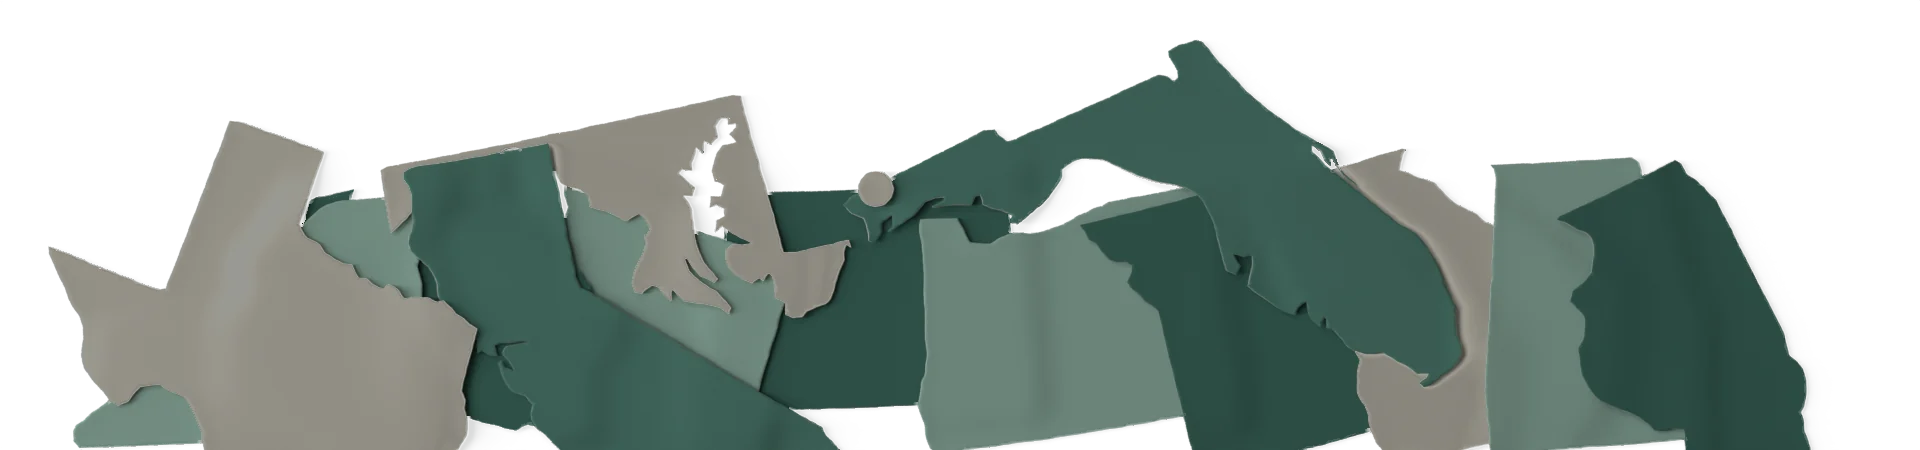
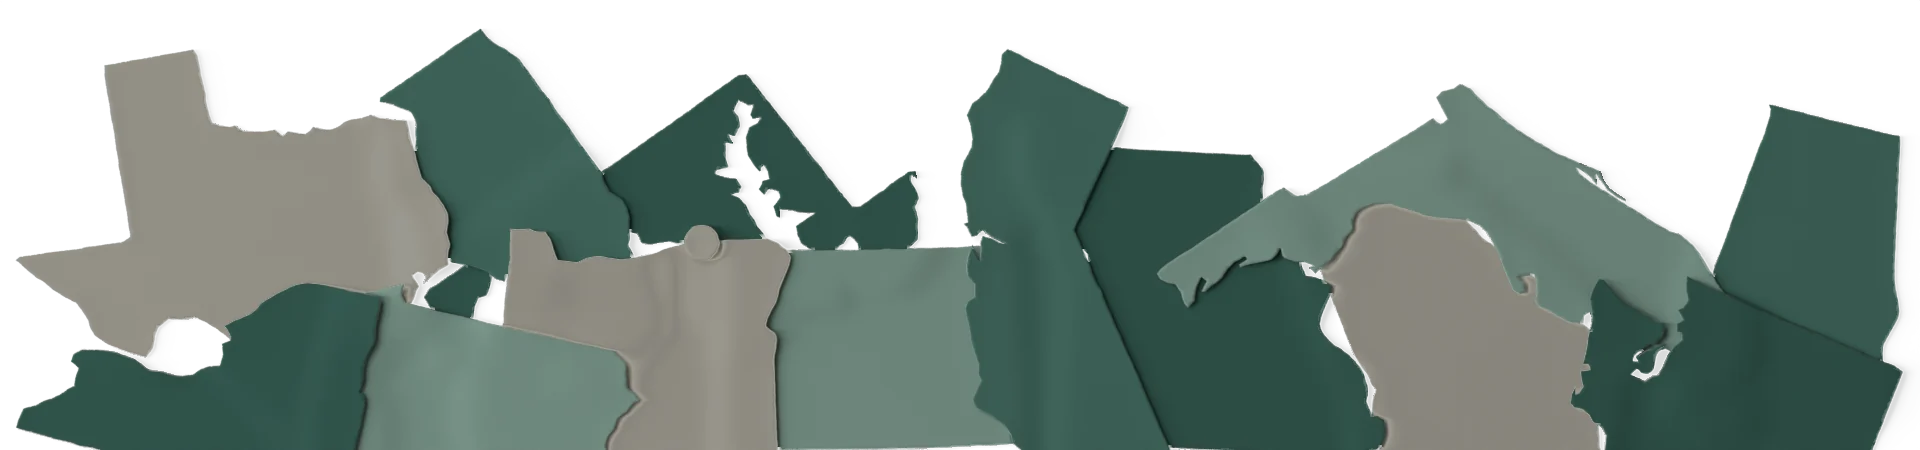
First page round 2: Show endorsements switch, states spread across the footer, thank-you coffee, address reads every district format
- "Show endorsements" is a switch that leads step 2 and the Edit sheet, on to
  start. Off, every source is off and the chips, "A party", the picks count
  and the fill switch step aside; "Hide races I've decided" stays. The act is
  data-act="ends" (role=switch); the save link is unchanged (sources []).
- The states pile is re-laid from a search for even cover across a phone and
  paper on every column of the bottom edge, then rendered and baked again; the
  CSS crop drops to the bake's 3px soft edge. The e2e check reads the bottom
  row of the image the band shows and finds no bare desk.
- "Buy Kevin a thank-you coffee", the whole line the link; How this guide
  works reads "Made by Kevin HG · Buy him a thank-you coffee".
- The Census district reader also reads "GA-5" style House seats, "Senate
  District 35" and "House District 53", and Washington's "LD-32" senators,
  so an address settles 13 more races (Atlanta, Chicago, Portland, Seattle,
  New York's boroughs, Callicoon). Washington's two representative seats per
  district stay unread.

Claude-Session: https://claude.ai/code/session_016fs4byQ7yRvJPLZNspiPou

diff --git a/src/views/setup.ts b/src/views/setup.ts
@@ -9,7 +9,7 @@ import { chipsHTML, TICK } from './lens';
 import { partiesOnBallot, CHIPS, noEndorsements, doorNone } from '../model/lens';
 import { coverage } from '../model/tally';
 import { planSetup } from '../model/bulk';
-import { isOpen, FILL, HIDE, NO_ENDS } from './common';
+import { isOpen, FILL, HIDE, SHOW_ENDS } from './common';
 
 /* "Austin, Texas", "Aurora or Denver, Colorado", "Ward 1, Washington, DC", or the state alone for
    statewide races. */
@@ -34,11 +34,11 @@ export function fillLine(party: string | null): string {
 const sw = (act: string, on: boolean, label: string, sub = ''): string =>
   `<button class="su-sw" role="switch" aria-checked="${on}" data-act="${act}" data-fk="${act}"><span class="su-l"><b>${esc(label)}</b>${sub ? `<small>${esc(sub)}</small>` : ''}</span><span class="tg" aria-hidden="true"><span></span></span></button>`;
 
-/* Step 2's controls, shared with the ballot's Edit sheet: the chips and "A party", the coverage
-   line, and the two switches. On the first page "A party" opens its list right there; in the Edit
-   sheet it opens the party sheet, and "See all sources" opens every source. Before a ZIP has found a
-   ballot the first page shows the choices kept so far (S.door), every party the guide covers, and
-   no counts. */
+/* Step 2's controls, shared with the ballot's Edit sheet: "Show endorsements", the chips and "A
+   party", the coverage line, and the two switches. On the first page "A party" opens its list right
+   there; in the Edit sheet it opens the party sheet, and "See all sources" opens every source. Before
+   a ZIP has found a ballot the first page shows the choices kept so far (S.door), every party the
+   guide covers, and no counts. */
 export function pickControlsHTML(inSheet = false): string {
   const b = inSheet || S.view === 'setup' ? S.ballot : null;
   const party = b ? S.b.party : S.door.party;
@@ -55,19 +55,23 @@ export function pickControlsHTML(inSheet = false): string {
     : '';
   const chips = b ? chipsHTML()
     : CHIPS.map((c) => `<button class="chip" data-act="chip" data-k="${c.key}" aria-pressed="${S.door.chips[c.key]}" data-fk="chip-${c.key}">${TICK}${esc(c.label)}</button>`).join('');
-  // "Don't show endorsements": every row shows just the choices. With it on there is nothing to fill
-  // and nothing to count, so the fill switch and the coverage line step aside. It leads the group
-  // (Kevin, Oct 20), but as a small pen tick box on its own line rather than a chip, so it doesn't
-  // outweigh the choices after it (Kevin, Oct 21); newspapers and guides stay the default.
+  // "Show endorsements" leads the step as a switch like the two below it, on to start (Kevin, Oct 21:
+  // say it the affirmative way). Off, every row shows just the choices: no source on and no party, so
+  // the chips, "A party", the coverage line and the fill switch, which only matter with endorsements,
+  // step aside. On again, newspapers and guides come back.
   const none = b ? noEndorsements() : doorNone();
-  const noneChip = `<button class="su-none" data-act="no-ends" aria-pressed="${none}" data-fk="chip-none"><i aria-hidden="true"></i>${NO_ENDS}</button>`;
-  const cov = b && !none ? coverage() : null;
-  return `<div class="su-chips" role="group" aria-labelledby="${inSheet ? 'sh-h' : 'su-h'}">${noneChip}${chips}${partyChip}${more}</div>
+  const ends = `<div class="su-sws su-ends">${sw('ends', !none, SHOW_ENDS)}</div>`;
+  const only = sw('setup-only', inSheet ? S.ui.setupOnly : S.door.only, HIDE);
+  if (none) return `${ends}
+    <div class="su-sws">${only}</div>`;
+  const cov = b ? coverage() : null;
+  return `${ends}
+    <div class="su-chips" role="group" aria-labelledby="${inSheet ? 'sh-h' : 'su-h'}">${chips}${partyChip}${more}</div>
     ${list}
     ${cov ? `<p class="su-cov">Picks in ${cov.picked} of your ${plural(cov.total, 'race')}.</p>` : ''}
     <div class="su-sws">
-      ${none ? '' : sw('setup-fill', inSheet ? S.ui.setupFill : S.door.fill, FILL, b ? fillLine(party) : 'Fills the races where they agree. Races where picks split stay open.')}
-      ${sw('setup-only', inSheet ? S.ui.setupOnly : S.door.only, HIDE)}
+      ${sw('setup-fill', inSheet ? S.ui.setupFill : S.door.fill, FILL, b ? fillLine(party) : 'Fills the races where they agree. Races where picks split stay open.')}
+      ${only}
     </div>`;
 }
 

diff --git a/src/styles.css b/src/styles.css
@@ -191,13 +191,10 @@ b, strong { font-weight: 600; }
 .front .fine .linkbtn { margin: -12px 0; padding: 0; }
 .su-h { margin-top: 16px; font-family: var(--f-display); font-size: 22px; font-weight: 800; line-height: 1.05; font-variation-settings: "wdth" 78; color: var(--print); }
 .su-chips { display: flex; flex-wrap: wrap; gap: 8px; margin-top: 14px; }
-/* "Don't show endorsements" heads the group as a pen tick box on its own line, like the first page's
-   ticks: lighter than a chip, so the choices after it carry the weight. The whole line is the tap. */
-.su-none { flex: 1 0 100%; min-height: 40px; margin: -6px 0 -2px; display: flex; align-items: center; gap: 10px; font-size: 15px; color: var(--ink-2); text-align: left; }
-.su-none i { width: 16px; height: 16px; border: 1.3px solid var(--ink-2); border-radius: 1.5px; flex: none; position: relative; }
-.su-none[aria-pressed="true"] { color: var(--ink); }
-.su-none[aria-pressed="true"] i { border-color: var(--ink); }
-.su-none[aria-pressed="true"] i::after { content: ""; position: absolute; left: -1px; top: -9px; width: 25px; height: 23px; background: var(--ink); -webkit-mask: var(--pen-tick) center / contain no-repeat; mask: var(--pen-tick) center / contain no-repeat; }
+/* "Show endorsements" leads step 2, right under its heading; the chips it governs follow. */
+.su-ends { margin-top: 2px; }
+.su-ends .su-sw { min-height: 44px; padding: 8px 0 0; }
+.su-ends + .su-chips { margin-top: 6px; }
 .su-parties { margin-top: 8px; }
 .su-cov { margin-top: 12px; padding-bottom: 14px; border-bottom: 1px solid var(--rule-2); font-size: 14.5px; color: var(--muted); }
 .su-sw { width: 100%; min-height: 52px; display: grid; grid-template-columns: minmax(0, 1fr) 52px; gap: 12px; align-items: start; padding: 12px 0 6px; text-align: left; }
@@ -785,12 +782,12 @@ b, strong { font-weight: 600; }
 /* The covered states cut from paper and piled up at the foot of the first page (pile.webp: 1920x450, a 3x
    render drawn at 640 by 150). The first page is at least a screen tall, and the band sits on its bottom
    edge, as wide as the page; the heap is drawn at its own size in the middle, so a phone sees it run off
-   both sides and a wider screen sees all of it, ending in bare desk. The render's bottom 18px are cut
-   off: some bottom pieces stop up to 16px short of its edge, and the heap should run off the page with
-   no desk under it (Kevin, Oct 21). Decoration only. */
-.front.mast { position: relative; min-height: 100vh; min-height: 100svh; padding-bottom: 150px; }
-.pile { position: absolute; left: 0; right: 0; bottom: 0; height: 132px; overflow: hidden; overflow: clip; pointer-events: none; }
-.pile img { position: absolute; left: 50%; bottom: -18px; width: 640px; height: 150px; max-width: none; margin-left: -320px; }
+   both sides and a wider screen sees all of it, ending in bare desk. Every piece along the bottom runs
+   off the render's edge, so no desk shows under the heap (Kevin, Oct 21); the bottom 3px are cut off,
+   where the bake's softening leaves the edge a little see-through. Decoration only. */
+.front.mast { position: relative; min-height: 100vh; min-height: 100svh; padding-bottom: 165px; }
+.pile { position: absolute; left: 0; right: 0; bottom: 0; height: 147px; overflow: hidden; overflow: clip; pointer-events: none; }
+.pile img { position: absolute; left: 50%; bottom: -3px; width: 640px; height: 150px; max-width: none; margin-left: -320px; }
 @media print { .pile { display: none; } }
 .voted-head .kick { font-family: var(--f-display); font-size: 22px; font-weight: 800; font-variation-settings: "wdth" 78; color: var(--gold-ink); margin-top: 6px; }
 

diff --git a/src/actions.ts b/src/actions.ts
@@ -530,28 +530,28 @@ A.src = (d) => {
   renderLens();
 };
 A['src-default'] = () => { S.b.sources = null; S.b.party = null; persist(); renderLens(); };
-/* "Don’t show endorsements" (step 2 and the Edit sheet): every source off and no party, so every row shows
-   just the choices; the save link carries it as an empty source list. Tapped again, the newspapers
-   and guides come back. Any other chip, or a party, ends it on its own. */
-A['no-ends'] = () => {
+/* "Show endorsements" (step 2 and the Edit sheet), on to start. Off: every source off and no party, so
+   every row shows just the choices; the save link carries it as an empty source list. On again, the
+   newspapers and guides come back. */
+A.ends = () => {
   if (S.view !== 'ballot') {
-    // With a ballot found, the chip shows that ballot's choice (it may have its own): turn that over.
-    const on = doorBallot() ? !noEndorsements() : !doorNone();
-    S.door.chips = { papers: !on, progressive: false, conservative: false };
+    // With a ballot found, the switch shows that ballot's choice (it may have its own): turn that over.
+    const off = doorBallot() ? !noEndorsements() : !doorNone();
+    S.door.chips = { papers: !off, progressive: false, conservative: false };
     S.door.party = null;
-    if (on) S.door.fill = false;
+    if (off) S.door.fill = false;
     S.ui.open.delete('su-party');
-    if (doorBallot()) { S.b.sources = on ? [] : null; S.b.party = null; }
+    if (doorBallot()) { S.b.sources = off ? [] : null; S.b.party = null; }
     render(['mast']);
-    announce(on ? 'Turned on.' : 'Turned off.');
+    announce(off ? 'Turned off.' : 'Turned on.');
     return;
   }
-  const on = !noEndorsements();
-  S.b.sources = on ? [] : null;
+  const off = !noEndorsements();
+  S.b.sources = off ? [] : null;
   S.b.party = null;
-  if (on) S.ui.setupFill = false;
+  if (off) S.ui.setupFill = false;
   renderLens(); persist();
-  announce(on ? 'Turned on.' : 'Turned off.');
+  announce(off ? 'Turned off.' : 'Turned on.');
 };
 A['src-none'] = () => { S.b.sources = []; S.b.party = null; persist(); renderLens(); };
 /* All sources or a party. Opened from the Edit sheet, it goes back there when it closes. */

diff --git a/src/views/common.ts b/src/views/common.ts
@@ -23,18 +23,19 @@ export const askCityURL = (zip: string): string => formURL('Please add my city',
 /* The two switches, the same words wherever they show (step 2, the Edit sheet, the menu, the rail). */
 export const FILL = 'Fill in my ballot with their picks';
 export const HIDE = 'Hide races I’ve decided';
-/* The chip that turns every source off (step 2 and the Edit sheet); the ballot's Picks line then
-   reads "No endorsements shown". */
-export const NO_ENDS = 'Don’t show endorsements';
+/* The switch that leads step 2 and the Edit sheet, on to start; off turns every source off and the
+   ballot's Picks line reads "No endorsements shown". */
+export const SHOW_ENDS = 'Show endorsements';
 
-/* The credit: Kevin's name, linked to his site, and Buy him a coffee while that has a link. The first
-   page names him in its small print ("where Kevin HG’s friends live"); "How this guide works" ends
-   with "Made by Kevin HG". */
+/* The credit: Kevin's name, linked to his site, and a thank-you coffee while that has a link (Kevin,
+   Oct 21: "Buy Kevin a thank-you coffee", the whole line the link). The first page names him in its
+   small print ("where Kevin HG’s friends live"); "How this guide works" ends with "Made by Kevin HG",
+   so its coffee line says "him". */
 export const BUY_ME_A_COFFEE_URL = 'https://buymeacoffee.com/kevinhg';
 export const KEVIN_URL = 'https://kevinhg.com';
 export const kevinLink = (): string => ext(KEVIN_URL, 'Kevin HG');
-export const coffeeLink = (): string => (BUY_ME_A_COFFEE_URL ? ext(BUY_ME_A_COFFEE_URL, 'Buy him a coffee') : '');
-export const creditHTML = (): string => [`Made by ${kevinLink()}`, coffeeLink()].filter(Boolean).join(' · ');
+export const coffeeLink = (who = 'Kevin'): string => (BUY_ME_A_COFFEE_URL ? ext(BUY_ME_A_COFFEE_URL, `Buy ${who} a thank-you coffee`) : '');
+export const creditHTML = (): string => [`Made by ${kevinLink()}`, coffeeLink('him')].filter(Boolean).join(' · ');
 
 /* ---------- paywalled sources (Kevin, Oct 19) ----------
    A paper whose endorsements sit behind a paywall we couldn't read: the picks we only saw

diff --git a/src/ballot.ts b/src/ballot.ts
@@ -40,14 +40,30 @@ export interface Ballot {
   hasLocal: boolean;
 }
 
+/* Which Census district a race is for, read from its district: Congress (cd), the state senate
+   (upper) or the state house or assembly (lower), with its number. The research mostly writes "CD-37",
+   "SD-14", "HD-49" or "AD-51", and a few places another way (Oct 21): a U.S. House seat as "GA-5" or
+   "NY-13", a legislature seat spelled out ("Senate District 35", "House District 53"), and Washington's
+   legislative districts, which elect one senator each ("LD-32"). Washington's two representatives
+   per district ("LD-32 Position 1" and "Position 2") stay unread: one district answer shows one race,
+   and both are on that district's ballot. Anything else is no Census district. */
+const US_HOUSE = /\bU\.?\s?S\.?\s+(?:House|Representative)|\bCongress/i;
 const districtNum = (c: Contest): { kind: Group['kind']; n: number | null } => {
-  const d = c.district || '';
+  const d = (c.district || '').trim();
   let m = d.match(/^CD-?\s*(\d+)/i);
   if (m) return { kind: 'cd', n: +m[1] };
   m = d.match(/^SD-?\s*(\d+)/i);
   if (m) return { kind: 'upper', n: +m[1] };
   m = d.match(/^(?:HD|AD)-?\s*(\d+)/i);
   if (m) return { kind: 'lower', n: +m[1] };
+  m = d.match(/^[A-Z]{2}-(\d+)$/);
+  if (m && US_HOUSE.test(c.office)) return { kind: 'cd', n: +m[1] };
+  m = d.match(/^(?:State )?Senate District (\d+)$/i);
+  if (m) return { kind: 'upper', n: +m[1] };
+  m = d.match(/^(?:State )?(?:House|Assembly) District (\d+)$/i);
+  if (m) return { kind: 'lower', n: +m[1] };
+  m = d.match(/^LD-?\s*(\d+)$/i);
+  if (m && /senat/i.test(c.office)) return { kind: 'upper', n: +m[1] };
   return { kind: null, n: null };
 };
 export const contestDistrict = districtNum;

diff --git a/scripts/paper/render.py b/scripts/paper/render.py
@@ -393,15 +393,21 @@ def state_rings(code, keep=.02):
 # The pile at the foot of the first page: the same states, cut from the crowd's papers and dropped in a heap
 # that runs off the bottom of the frame and, on a phone, off both sides; on a wide screen it ends in bare desk.
 # Back to front: x, y of the state's middle, its size (the square root of its area), a turn in degrees, paper.
-# The places came from a scratch search (many tries per piece, keeping the one that covered the most new desk
-# below a line with room to poke above it, overlapping the pieces already down by about a third, never past
-# the frame's top or sides), then were fixed here so a render is repeatable. DC is a small punched dot on top.
+# The places came from a scratch search (Oct 21, after Kevin saw the first heap crowd the left of a phone and
+# leave desk under its right side), kept out of the repo: simulated annealing over each piece's place, size
+# (within 8% of its old one) and turn, and the order they fall in, toward paper on every column of the frame's
+# bottom edge, even cover across a phone's middle 390 px with the same paper left and right of center, no desk
+# showing between pieces under the heap's top edge, turns and a skyline that vary, the heap settling lower
+# toward the ends, each state showing at least 70% of itself (Florida, Texas and California 80%), and nothing
+# past the frame's top or sides. Papers were then dealt so touching pieces mostly differ and each paper spreads
+# across the width. DC is a small punched dot on top, where the city sits on Maryland's southwest edge. The
+# numbers are fixed here so a render is repeatable.
 PILE = [
-    ('CO', -0.30, -0.24, .84, 2, 'deep'), ('WA', -1.16, -0.30, .80, -19, 'tint'), ('OR', 0.35, -0.30, .84, 9, 'tint'),
-    ('PA', -1.73, -0.29, .76, -15, 'deep'), ('MO', 1.07, -0.35, .84, 15, 'deep'), ('GA', 1.63, -0.26, .82, 17, 'cream'),
-    ('AL', 2.09, -0.35, .78, 4, 'tint'), ('NY', -2.22, -0.50, .82, 4, 'tint'), ('IL', 2.42, -0.45, .76, 26, 'deep'),
-    ('MD', -1.13, -0.04, .62, 12, 'cream'), ('CA', -1.10, -0.44, .92, 12, 'green'), ('FL', 0.68, -0.18, .86, 28, 'green'),
-    ('TX', -2.36, -0.44, 1.02, -19, 'cream'), ('DC', -0.28, 0.12, .12, 0, 'cream'),
+    ('GA', 1.70, -0.38, .83, 13, 'cream'), ('MD', -0.91, -0.12, .66, 35, 'deep'), ('AL', 2.83, -0.17, .72, -13, 'green'),
+    ('IL', -1.48, 0.05, .70, 35, 'green'), ('CO', -0.29, -0.41, .77, 1, 'tint'), ('MO', 0.83, -0.31, .91, -3, 'deep'),
+    ('OR', -1.08, -0.39, .81, 0, 'cream'), ('TX', -2.42, -0.09, .97, 11, 'cream'), ('FL', 1.66, -0.27, .79, 35, 'tint'),
+    ('WA', 2.54, -0.60, .77, -24, 'deep'), ('CA', 0.38, -0.29, .85, -24, 'green'), ('PA', -1.57, -0.56, .70, -13, 'tint'),
+    ('NY', -2.44, -0.66, .75, -13, 'deep'), ('DC', -0.86, -0.06, .12, 0, 'cream'),
 ]
 PILE_FRAME = (6.4, 1.5)   # scene units; at PX=300 the image is 1920 by 450, drawn at 640 by 150 CSS px (3x)
 PILE_STEP = .017          # a sheet clears the one under it by this much: its thickness plus the most a crumple

diff --git a/AGENTS.md b/AGENTS.md
@@ -61,4 +61,4 @@ Changing any of this silently loses people's picks. `tests/model.mjs` pins it (a
 
 ## Test hooks (keep them, or update the tests in the same change)
 
-`id="i-<item id>"` and `data-item` on every item, `data-undecided` on undecided rows, `data-q` on district questions, `data-act` on every control, `.sec[data-sec]` with `.sec-count` (just "N of M decided": it sits in the band's count `.sec-r`, after the title's `[data-act="sec"]`; where there is something to show or hide the count is a button `[data-act="sec-count"]` with `.sec-edit` "Show" or "Hide" after it, which under "Hide races I've decided" shows the section's decided rows for the visit and otherwise folds the section), `.unopp .disc`, `.wi-fold` (folded write-ins), `.bar-txt` ("N of M decided" by the one counting rule in `ballot.ts`: a district question is one race until it's answered, and the closed "Other school districts" fold's races count only once claimed; it sits in the bar's menu button `[data-act="toc"]`, beside My plan `[data-act="cheat"]`), the menu (`.sheet-panel.toc` under 1180px, `.rail` from there, both from `menuHTML`) with `[data-act="next"]` ("Next up", its `data-k` the race it opens), `[data-act="only"]` ("Hide races I've decided", right above the section rows; saved with the ballot as `hideDecided`, never in the save link; a finished section then stays as its folded band) and `[data-act="jump"][data-to="plan|<section>|how"]`, `#how` ("How this guide works" at the bottom of the ballot, folded to its row `[data-act="open"][data-k="how"]` until that or the menu's last row opens `.how-bd`, which ends with the credit), `#plan`, `#cheat`, `#r-print`, `.toast`, the first page (steps 1 and 2 together on `.pad.door`, the sheet My plan uses: `#zip` looks a complete ZIP up as it's typed and `.door-place` names what it found, or `.choose` asks which place, `.door-place [data-act="rechoose"]` asks again; `#setup` is step 2 with `#su-h`, its chips and switches working before any ZIP and `.su-cov` once a ballot is found; `[data-act="setup-done"]` is "Show my ballot", which waits for the lookup, so every browser check types the ZIP and taps it before waiting for `#plan`), `[data-fk="browse"]` (the city count that opens the list of places), `.picks-line` with `[data-act="picks"]` (Edit: step 2's controls in `.sheet-panel.picks`, whose Done is `[data-fk="sheet-x"]` and applies its two switches; "See all sources" and "A party" open their sheets from there and come back), `.filled` ("N filled in. Undo" while that Undo lasts), `.addrbox` (the address box: before a lookup `.addr-n` "{n} races depend on your address."; after one `.addr-found` "Found: {the Census's address}" with `[data-act="addr-again"]` "Not it? Try again", for this visit only and never saved, `.addr-set` the saved "Set from your address: ..." line, and `.addr-n` "{N} still depend on your address. Your sample ballot shows them." or "Found your address. Your sample ballot shows the rest."), `.door-found` (the same "Found:" line under the first page's place line), `.addr-which` (in the form's place when the Census matches several addresses: "Which one is yours?", a `[data-act="addr-which"][data-i]` button each, and `[data-fk="aw-none"]` "None of these"), `[data-act="no-ends"]` ("Don’t show endorsements", the first chip in step 2 and the Edit sheet, the Picks line then reading "No endorsements shown": `sources` is `[]`, the fill switch and `.su-cov` step aside, undecided rows get an empty `.vd.blank`, open rows have no grid or source lines). Motion leaves husks for a moment: a closing panel (`.ob-gone`, and `.trust .gone` for "How this guide works"), a closing sheet (`.sheet-ghost`, before `#r-sheet`), and under the filter a decided row folding away (`.row-gone`) or a finished section's rows folding under its band (`.sec-gone`) keep their look but lose every id, `data-act`, `data-fk`, `data-item` and `data-undecided` and carry `data-husk`; a row in its beat carries `data-beat`; a check for something gone waits for them (e2e `settle`). `.land` marks where a jump landed, `.flash` with `.mk .ink` a pick's tick. Go-check buttons: `.may .may-acts` (a maybe row: `[data-act="addr-open"]` only where the Census settles the race, the sample ballot, `[data-act="notmine"]`), `[data-act="district"][data-v="none"]` (a question's last answer), `.addr-next` with `[data-act="addr-retry"]` and `[data-act="addr-pick"]` (after a lookup fails), `[data-act="retry"]` (under a load error), `.statewide-note .row-btns`, `a[data-ask-kevin]` (not covered), `.plan-reg a` (Register now). Step markers: `label[for="zip"]` (1), `#su-h` (2), `#ballot-h` (3, "Your ballot"), `.cs-step` (4, beside "Your voting plan"). My plan (`#cheat`, titled "Your voting plan"): `.save-go` ("Save it before you go", on screen only), `.endcap [data-act="cheat"]` ("Open my plan"). Help friends vote (`#pass`): `[data-act="share-guide"]` (the share sheet, or a copy), `#msg-fam` and `#msg-pub`. `.resume` ("Welcome back" above the plan, in `#r-restore`, on boot's last ballot when something is decided and something left; any tap takes it away) with its own `[data-act="next"]` (so scope "Next up" to `.sheet-panel` or `.rail`) and `[data-act="resume-x"]`. Test-only query strings: `?today=YYYY-MM-DD`, `?now=HH:MM` (local time where the polls are), `?try=fresh|aunt|straight|sources`.
+`id="i-<item id>"` and `data-item` on every item, `data-undecided` on undecided rows, `data-q` on district questions, `data-act` on every control, `.sec[data-sec]` with `.sec-count` (just "N of M decided": it sits in the band's count `.sec-r`, after the title's `[data-act="sec"]`; where there is something to show or hide the count is a button `[data-act="sec-count"]` with `.sec-edit` "Show" or "Hide" after it, which under "Hide races I've decided" shows the section's decided rows for the visit and otherwise folds the section), `.unopp .disc`, `.wi-fold` (folded write-ins), `.bar-txt` ("N of M decided" by the one counting rule in `ballot.ts`: a district question is one race until it's answered, and the closed "Other school districts" fold's races count only once claimed; it sits in the bar's menu button `[data-act="toc"]`, beside My plan `[data-act="cheat"]`), the menu (`.sheet-panel.toc` under 1180px, `.rail` from there, both from `menuHTML`) with `[data-act="next"]` ("Next up", its `data-k` the race it opens), `[data-act="only"]` ("Hide races I've decided", right above the section rows; saved with the ballot as `hideDecided`, never in the save link; a finished section then stays as its folded band) and `[data-act="jump"][data-to="plan|<section>|how"]`, `#how` ("How this guide works" at the bottom of the ballot, folded to its row `[data-act="open"][data-k="how"]` until that or the menu's last row opens `.how-bd`, which ends with the credit), `#plan`, `#cheat`, `#r-print`, `.toast`, the first page (steps 1 and 2 together on `.pad.door`, the sheet My plan uses: `#zip` looks a complete ZIP up as it's typed and `.door-place` names what it found, or `.choose` asks which place, `.door-place [data-act="rechoose"]` asks again; `#setup` is step 2 with `#su-h`, "Show endorsements", its chips and switches working before any ZIP and `.su-cov` once a ballot is found; `[data-act="setup-done"]` is "Show my ballot", which waits for the lookup, so every browser check types the ZIP and taps it before waiting for `#plan`), `[data-fk="browse"]` (the city count that opens the list of places), `.picks-line` with `[data-act="picks"]` (Edit: step 2's controls in `.sheet-panel.picks`, whose Done is `[data-fk="sheet-x"]` and applies its two switches; "See all sources" and "A party" open their sheets from there and come back), `.filled` ("N filled in. Undo" while that Undo lasts), `.addrbox` (the address box: before a lookup `.addr-n` "{n} races depend on your address."; after one `.addr-found` "Found: {the Census's address}" with `[data-act="addr-again"]` "Not it? Try again", for this visit only and never saved, `.addr-set` the saved "Set from your address: ..." line, and `.addr-n` "{N} still depend on your address. Your sample ballot shows them." or "Found your address. Your sample ballot shows the rest."), `.door-found` (the same "Found:" line under the first page's place line), `.addr-which` (in the form's place when the Census matches several addresses: "Which one is yours?", a `[data-act="addr-which"][data-i]` button each, and `[data-fk="aw-none"]` "None of these"), `[data-act="ends"]` ("Show endorsements", a `role="switch"` that leads step 2 and the Edit sheet, `aria-checked="true"` to start; off, the Picks line reads "No endorsements shown": `sources` is `[]`, the chips, "A party", the fill switch and `.su-cov` step aside, undecided rows get an empty `.vd.blank`, open rows have no grid or source lines). Motion leaves husks for a moment: a closing panel (`.ob-gone`, and `.trust .gone` for "How this guide works"), a closing sheet (`.sheet-ghost`, before `#r-sheet`), and under the filter a decided row folding away (`.row-gone`) or a finished section's rows folding under its band (`.sec-gone`) keep their look but lose every id, `data-act`, `data-fk`, `data-item` and `data-undecided` and carry `data-husk`; a row in its beat carries `data-beat`; a check for something gone waits for them (e2e `settle`). `.land` marks where a jump landed, `.flash` with `.mk .ink` a pick's tick. Go-check buttons: `.may .may-acts` (a maybe row: `[data-act="addr-open"]` only where the Census settles the race, the sample ballot, `[data-act="notmine"]`), `[data-act="district"][data-v="none"]` (a question's last answer), `.addr-next` with `[data-act="addr-retry"]` and `[data-act="addr-pick"]` (after a lookup fails), `[data-act="retry"]` (under a load error), `.statewide-note .row-btns`, `a[data-ask-kevin]` (not covered), `.plan-reg a` (Register now). Step markers: `label[for="zip"]` (1), `#su-h` (2), `#ballot-h` (3, "Your ballot"), `.cs-step` (4, beside "Your voting plan"). My plan (`#cheat`, titled "Your voting plan"): `.save-go` ("Save it before you go", on screen only), `.endcap [data-act="cheat"]` ("Open my plan"). Help friends vote (`#pass`): `[data-act="share-guide"]` (the share sheet, or a copy), `#msg-fam` and `#msg-pub`. `.resume` ("Welcome back" above the plan, in `#r-restore`, on boot's last ballot when something is decided and something left; any tap takes it away) with its own `[data-act="next"]` (so scope "Next up" to `.sheet-panel` or `.rail`) and `[data-act="resume-x"]`. Test-only query strings: `?today=YYYY-MM-DD`, `?now=HH:MM` (local time where the polls are), `?try=fresh|aunt|straight|sources`.

diff --git a/scripts/paper/README.md b/scripts/paper/README.md
@@ -20,12 +20,12 @@ The pile (`pile.webp`, 1920 by 450, a 3x render drawn at 640 by 150 CSS px) is t
 
 The layout, in `render.py`:
 
-- `PILE`: back to front, each piece's middle (x, y, in scene units from the frame's center; 1 unit is 100 CSS px), its size (the square root of its area: .76 to 1.02, DC .12), a turn in degrees (-19 to 28) and its paper. The places came from a scratch search, kept out of the repo: many random tries per piece, keeping the one that covered the most new desk below a line .2 units above the middle while overlapping the pieces already down by up to about a third, never past the frame's top (.1 of air) or its sides, and lower toward the ends; then the papers were shuffled so touching pieces mostly differ. By hand, Texas went to cream so it stands apart from California, and DC was set on top. The numbers are fixed in `PILE`, so a render is repeatable.
+- `PILE`: back to front, each piece's middle (x, y, in scene units from the frame's center; 1 unit is 100 CSS px), its size (the square root of its area: .66 to .97, DC .12), a turn in degrees (-24 to 35) and its paper. The places came from a scratch search (Oct 21; the first heap crowded the left of a phone and left desk under its right side), kept out of the repo: simulated annealing over each piece's place, size (within 8% of its earlier size) and turn, and the order the pieces fall in. It aimed for paper on every column of the frame's bottom edge, even cover across a phone's middle 390 px with as much paper left of center as right, no desk showing between pieces under the heap's top edge, turns and a skyline that vary, the heap settling lower toward the ends, each state showing at least 70% of itself (Florida, Texas and California 80%), and nothing past the frame's top or sides. The papers were then dealt so touching pieces mostly differ and each paper spreads across the width. DC is a small punched dot on top, set where the city sits on Maryland's southwest edge. The numbers are fixed in `PILE`, so a render is repeatable.
 - `PILE_FRAME` 6.4 by 1.5 units. `PILE_STEP` .017: how far a sheet clears the one under it (its .006 thickness plus the most a .006 crumple and a .003 edge lift raise the one below).
 - The drape: paper isn't stiff, so each piece lies on a height map of the pieces already down (`PILE_RES` 100 cells per unit, spread 7 cells past their edges and blurred by a Gaussian of 3.5 cells, so a sheet rides up over an edge and settles back to the desk without dipping into what's under it), then adds itself to the map.
 - `bake.py` checks every piece for a baked black edge along the outline. In the pile, deep green paper in the shade between two sheets is dark too, so the check counts only dark pixels next to the desk.
 
-If the guide adds a state, add a line to `PILE` where the heap has a gap, render and bake again. The band's size is `.pile` in `src/styles.css`: 132 px tall, with the render's bottom 18 px cut off so every bottom piece runs off the page (the deepest gap under one was 16 px), and the first page's bottom padding 150 px. The `<img>` is in `src/views/mast.ts`.
+If the guide adds a state, add a line to `PILE` where the heap has a gap, render and bake again. The band's size is `.pile` in `src/styles.css`: 147 px tall, with the render's bottom 3 px cut off (the bake's softening leaves the image's very edge a little see-through), and the first page's bottom padding 165 px. The `<img>` is in `src/views/mast.ts`.
 
[1 lines of base64/hex data omitted]
 - License: public domain. Natural Earth's terms: "All versions of Natural Earth raster + vector map data found on this website are in the public domain" (https://www.naturalearthdata.com/about/terms-of-use/). No credit is required; this line gives it anyway.
